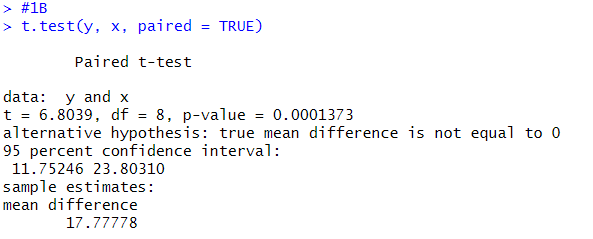
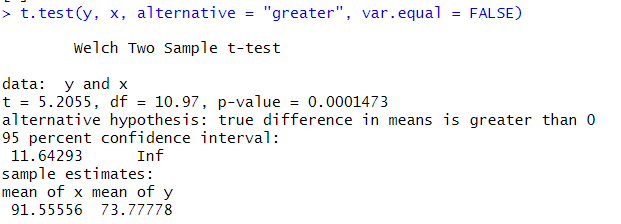
Update README.md

Changed region(s): [[0.0, 0.3438, 0.9713, 0.9688], [0.0, 0.0, 0.8499, 0.1562], [0.1214, 0.1875, 0.4553, 0.2812]]

diff --git a/README.md b/README.md
@@ -12,182 +12,244 @@ NRP Praktikan : 5025211015
 
 ### 1. Pengaruh Aktivitas A terhadap Kadar Saturasi Oksigen pada Manusia
 
+Seorang peneliti melakukan penelitian mengenai pengaruh aktivitas 𝐴 terhadap kadar saturasi oksigen pada manusia. Peneliti tersebut mengambil sampel sebanyak 9 responden. Pertama, sebelum melakukan aktivitas 𝐴, peneliti mencatat kadar saturasi oksigen dari 9 responden tersebut. Kemudian, 9 responden tersebut diminta melakukan aktivitas 𝐴. Setelah 15 menit, peneliti tersebut mencatat kembali kadar saturasi oksigen dari 9 responden tersebut. Berikut data dari 9 responden mengenai kadar saturasi oksigen sebelum dan sesudah melakukan aktivitas. <br />
+
+![1z](/img/1z.png)
+
+Berdasarkan data pada tabel diatas, diketahui kadar saturasi oksigen dari responden ke-3 ketika belum melakukan aktivitas 𝐴 sebanyak 67, dan setelah melakukan aktivitas 𝐴 sebanyak 70.
+
 a. Carilah Standar deviasi dari data selisih pasangan pengamatan tabel
 
-```r
+- Masukkan semua data pada tabel ke dalam RStudio
 
+  ```r
+  resp <- c(1,2,3,4,5,6,7,8,9)
+  x <- c(78,75,67,77,70,72,78,70,77)
+  y <- c(100,95,70,90,90,90,89,100,100)
+  ```
 
-```
+- Lalu hitung selisih dari kedua data
+
+  ```r
+  dt <- data.frame(resp,x,y)
+  diff <- dt[,3]-dt[,2]
+
+  ```
+
+- Hitung standar deviasi dari selisih data
+
+  ```r
+  std1 <- sd(diff)
+  std1
+  ```
 
 Screenshoot : <br />
 ![1a](/img/1a.png)
 
-Penjelasan :
+Penjelasan : Dari hasil perhitungan diatas, didapatkan standar deviasi dari data selisih pasangan pengamatan tabel adalah 7.838651
 <br />
 
 b. Carilah nilai t (p-value)
 
-```r
+- Untuk mencari nilai t, kita dapat menggunakan fungsi t.test() pada RStudio
 
-```
+  ```r
+  t.test(before, after, alternative = "greater", var.equal = FALSE)
+  ```
 
 Screenshoot : <br />
 ![1b](/img/1b.png)
 
-Penjelasan :
+Penjelasan : Dari hasil perhitungan diatas, didapatkan nilai t sebesar 5.2055 dan p-value sebesar 0.0001473
 <br />
 
-c. Tentukanlah apakah terdapat pengaruh yang signifikan secara statistika dalam 
-hal kadar saturasi oksigen , sebelum dan sesudah melakukan aktivitas 𝐴 jika 
-diketahui tingkat signifikansi 𝛼 = 5% serta H0 : “tidak ada pengaruh yang
-signifikan secara statistika dalam hal kadar saturasi oksigen sebelum dan sesudah 
-melakukan aktivitas 𝐴”.
+c. Tentukanlah apakah terdapat pengaruh yang signifikan secara statistika dalam hal kadar saturasi oksigen , sebelum dan sesudah melakukan aktivitas 𝐴 jika diketahui tingkat signifikansi 𝛼 = 5% serta H0 : “tidak ada pengaruh yang signifikan secara statistika dalam hal kadar saturasi oksigen sebelum dan sesudah melakukan aktivitas 𝐴”.
 
-```r
+- Untuk melihat Hasil komparasi antara dua varians, kita dapat menggunakan fungsi var.test() pada RStudio
 
-```
+  ```r
+  var.test(y, x)
+  t.test(y, x, var.equal = TRUE)
 
-Screenshoot : <br />
-![1c](/img/1c.png)
+  ```
 
-Penjelasan :
+  Screenshoot : <br />
+  ![1c](/img/1c.png)
+
+- Untuk melihat Hasil komparasi antara nilai t dan nilai kritis, serta p-value dan tingkat signifikansi, kita dapat menggunakan fungsi t.test() pada RStudio
+
+  ```r
+  t.test(y, x, var.equal = TRUE)
+
+  ```
+
+  Screenshoot : <br />
+  ![1c2](/img/1c2.png)
+
+Penjelasan : Terlihat dari hasil output yang dihasilkan nilai dari percobaan di atas adalah nilai mean pada `t.test(y, x, var.equal = TRUE)` sama dengan yang ada di poin 1b, sehingga tidak memiliki pengaruh yang signnifikan dalam statistika.
 <br />
 
 ### 2. Uji Klaim Rata-rata Jarak Tempuh Mobil
 
-a. Apakah Anda setuju dengan klaim tersebut? Jelaskan.
+Diketahui bahwa mobil dikemudikan rata-rata lebih dari 25.000 kilometer per 
+tahun. Untuk menguji klaim ini, 100 pemilik mobil yang dipilih secara acak 
+diminta untuk mencatat jarak yang mereka tempuh. Jika sampel acak 
+menunjukkan rata-rata 23.500 kilometer dan standar deviasi 3.000 kilometer
 
-```r
-
-```
-
-Screenshoot : <br />
-![2a](/img/2a.png)
-
-Penjelasan :
-<br />
+a. Apakah Anda setuju dengan klaim tersebut? Jelaskan. <br />
+Setuju, karena nilai mean yang didapatkan lebih kecil dari nilai mean yang diklaim  <br />
 
 b. Buatlah kesimpulan berdasarkan p-value yang dihasilkan!
+- Untuk mencari niali p-value, kita dapat menggunakan fungsi zsum.test() pada RStudio
 
-```r
-
-```
+    ```r
+    zsum.test(mean.x = 23500, sigma.x = 3000, n.x = 100,
+            alternative = "greater", mu = 25000,
+            conf.level = 0.95)
+    ```
 
 Screenshoot : <br />
-![2b](/img/2b.png)
+![2b](/img/2a.png)
 
-Penjelasan :
+Penjelasan : Karena nilai p-value lebih besar dari 0.05, maka kita dapat menyimpulkan bahwa klaim tersebut benar. dan kita dapat menolak H0. Selain itu, karena dalam output tertulis bahwa `true mean is greater than 25000
+95 percent confidence interval:  23006.54 NA` maka kita dapat menyimpulkan bahwa nilai mean yang didapatkan lebih kecil dari nilai mean yang diklaim, sehingga klaim tersebut benar.
 <br />
 
 ### 3. Analisis Perbedaan Rata-rata Saham antara Kota Bandung dan Bali
 
+Diketahui perusahaan memiliki seorang data analyst yang ingin memecahkan
+permasalahan pengambilan keputusan dalam perusahaan tersebut. Selanjutnya
+didapatkanlah data berikut dari perusahaan saham tersebut.
+
+![3z](/img/3z.png)
+
+Dari data di atas berilah keputusan serta kesimpulan yang didapatkan. Asumsikan  nilai variancenya sama, apakah ada perbedaan pada rata-ratanya (α= 0.05)? 
+
 a. H0 dan H1
-
-```r
-
-```
-
-Screenshoot : <br />
-![3a](/img/3a.png)
-
-Penjelasan :
-<br />
+- Perhitungan H0 = 9.74765
+    ![3a1](/img/3a1.png)
+- Perhitungan H1 = 9.664844
+    ![3a2](/img/3a2.png)
 
 b. Hitung sampel statistik
+- untuk menghitung sampel statsitik, kita dapat menggunakan fungsi tsum.test() pada RStudio
+    ```r
+    tsum.test(mean.x=3.64, s.x = 1.67, n.x = 19, mean.y =2.79 , s.y = 1.32, n.y = 27, alternative = "greater", var.equal = TRUE)
 
-```r
+    ```
+    Screenshoot : <br />
+    ![3b](/img/3c.png)
 
-```
-
-Screenshoot : <br />
-![3b](/img/3b.png)
-
-Penjelasan :
+Penjelasan : Dari hasil perhitungan diatas, didapatkan nilai t sebesar 1.8304 dan p-value sebesar 0.03691. 
 <br />
 
 c. Lakukan uji statistik (df =2)
 
-```r
+- Untuk melakukan uji statistik, kita dapat menggunakan fungsi plotDist() pada RStudio
 
-```
+    ```r
+    plotDist(dist='t', df=2, col="blue")
+    ```
 
-Screenshoot : <br />
-![3c](/img/3c.png)
-
-Penjelasan :
-<br />
+    Screenshoot : <br />
+    ![3c](/img/3d.png)
 
 d. Nilai kritikal
 
-```r
+- Untuk mencari nilai kritikal, kita dapat menggunakan fungsi qchisq() pada RStudio
 
-```
+    ```r
+    qchisq(p = 0.05, df = 2, lower.tail=FALSE)
+    ```
 
-Screenshoot : <br />
-![3d](/img/3d.png)
+    Screenshoot : <br />
+    ![3d](/img/3e.png)
 
-Penjelasan :
+e. Keputusan <br />
+- Dalam kasus ini, kita menggunakan α (tingkat signifikansi) sebesar 0.05. Jika p-value < α, maka kita dapat menolak H0 dan menerima H1. Sebaliknya, jika p-value ≥ α, maka kita gagal menolak H0.
+- Dalam hal ini, p-value (0.03691) < α (0.05), sehingga kita menolak H0.
+
+f. Kesimpulan <br />
+- Terdapat perbedaan yang signifikan antara rata-rata saham Kota Bandung dan Bali.
+- Rata-rata saham di salah satu kota (entah Kota Bandung atau Bali) lebih tinggi secara signifikan daripada rata-rata saham di kota lainnya.
 <br />
 
-e. Keputusan
-
-```r
-
-```
-
-Screenshoot : <br />
-![3e](/img/3e.png)
-
-Penjelasan :
-<br />
-
-f.
-
-```r
-
-```
-
-Screenshoot : <br />
-![3f](/img/3f.png)
-
-Penjelasan :
-<br />
 
 ### 4. Pengaruh Suhu dan Jenis Kaca Pelat Muka terhadap Keluaran Cahaya Tabung Osiloskop
 
+Data yang digunakan merupakan hasil eksperimen yang dilakukan untuk 
+mengetahui pengaruh suhu operasi (100˚C, 125˚C dan 150˚C) dan tiga jenis kaca pelat muka (A, B dan C) pada keluaran cahaya tabung osiloskop. Percobaan dilakukan sebanyak 27 kali dan didapat data sebagai berikut: 
+https://drive.google.com/file/d/1pICtCrf61DRU86LDPQDJmcKiUMVt9ht4/view.
+
 a. Buatlah plot sederhana untuk visualisasi data.
+- Install library yang dibutuhkan
+    ```r
+    install.packages("multcompView")
+    library(readr)
+    library(ggplot2)
+    library(multcompView)
+    library(dplyr)
+    ```
 
-```r
+- Baca data
+    ```r
+    GTL <- read_csv("GTL.csv")
+    head(GTL)
+    ```
+    Screenshoot : <br />
+    ![4a1](/img/4a1.png)
 
-```
+- Cek struktur data
+    ```r
+    str(GTL)
+    ```
+    Screenshoot : <br />
+    ![4a2](/img/4a2.png)
 
-Screenshoot : <br />
-![4a](/img/4a.png)
+- Buat plot sederhana untuk visualisasi data
+    ```r
+    qplot(x = Temp, y = Light, geom = "point", data = GTL) +
+    facet_grid(.~Glass, labeller = label_both)
+    ```
+    Screenshoot : <br />
+    ![4a3](/img/4a3.png)
 
-Penjelasan :
+Penjelasan : Dari hasil plot diatas, dapat dilihat bahwa terdapat perbedaan keluaran cahaya tabung osiloskop pada suhu operasi 100˚C, 125˚C dan 150˚C. Selain itu, terdapat perbedaan keluaran cahaya tabung osiloskop pada jenis kaca pelat muka A, B dan C.
 <br />
 
 b. Lakukan uji ANOVA dua arah.
+- Untuk melakukan uji ANOVA dua arah, kita dapat menggunakan fungsi aov() pada RStudio
 
-```r
+    ```r
+    GTL$Glass <- as.factor(GTL$Glass)
+    GTL$Temp_Factor <- as.factor(GTL$Temp)
+    str(GTL)
 
-```
+    anova <- aov(Light ~ Glass*Temp_Factor, data = GTL)
+    summary(anova)
+    ```
 
-Screenshoot : <br />
-![4b](/img/4b.png)
+    Screenshoot : <br />
+    ![4b](/img/4b.png)
 
-Penjelasan :
+Penjelasan : Dari hasil perhitungan diatas, didapatkan nilai F sebesar 198.7 dan p-value sebesar 1.25e-14.
+
 <br />
 
-c. Tampilkan tabel dengan mean dan standar deviasi keluaran cahaya untuk setiap 
-perlakuan (kombinasi kaca pelat muka dan suhu operasi).
+c. Tampilkan tabel dengan mean dan standar deviasi keluaran cahaya untuk setiap perlakuan (kombinasi kaca pelat muka dan suhu operasi).
 
-```r
+- Untuk menampilkan tabel dengan mean dan standar deviasi keluaran cahaya untuk setiap perlakuan, kita dapat menggunakan fungsi group_by() dan summarise() pada RStudio
 
-```
+    ```r
+    data_summary <- group_by(GTL, Glass, Temp) %>%
+    summarise(mean=mean(Light), sd=sd(Light)) %>%
+    arrange(desc(mean))
+    print(data_summary)
+    ```
 
-Screenshoot : <br />
-![4c](/img/4c.png)
+    Screenshoot : <br />
+    ![4c](/img/4c.png)
 
-Penjelasan :
+Penjelasan : Dari hasil perhitungan diatas, didapatkan tabel dengan mean dan standar deviasi keluaran cahaya untuk setiap perlakuan (kombinasi kaca pelat muka dan suhu operasi).
 <br />
+
